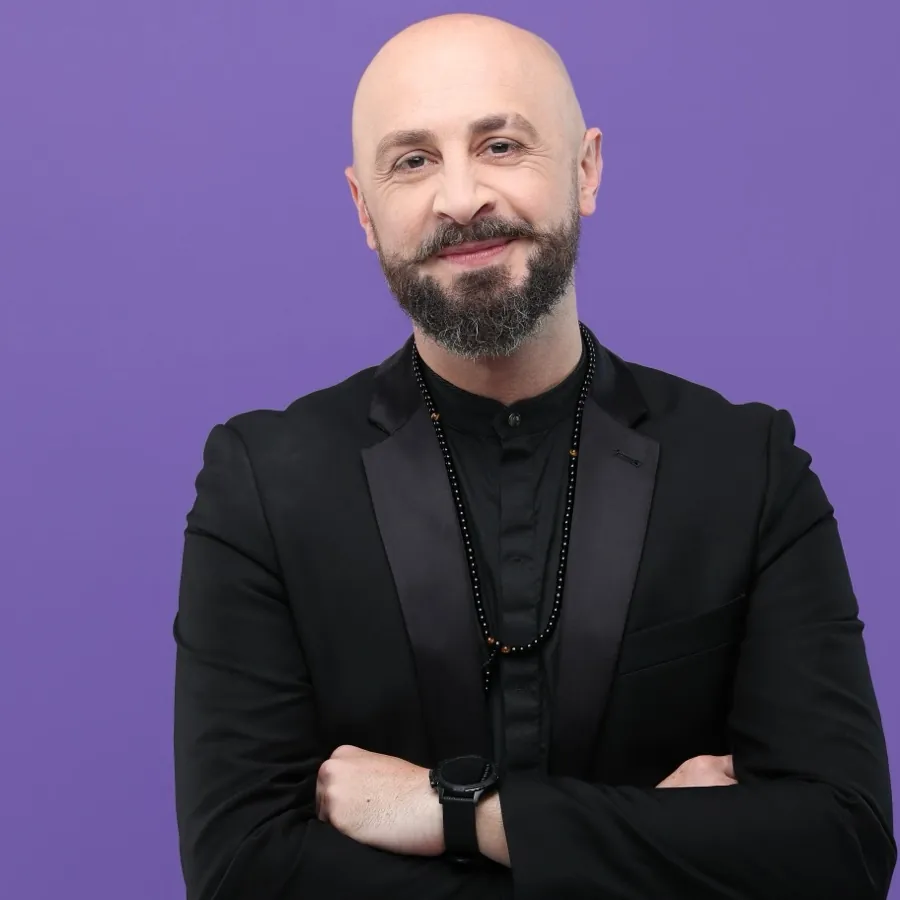
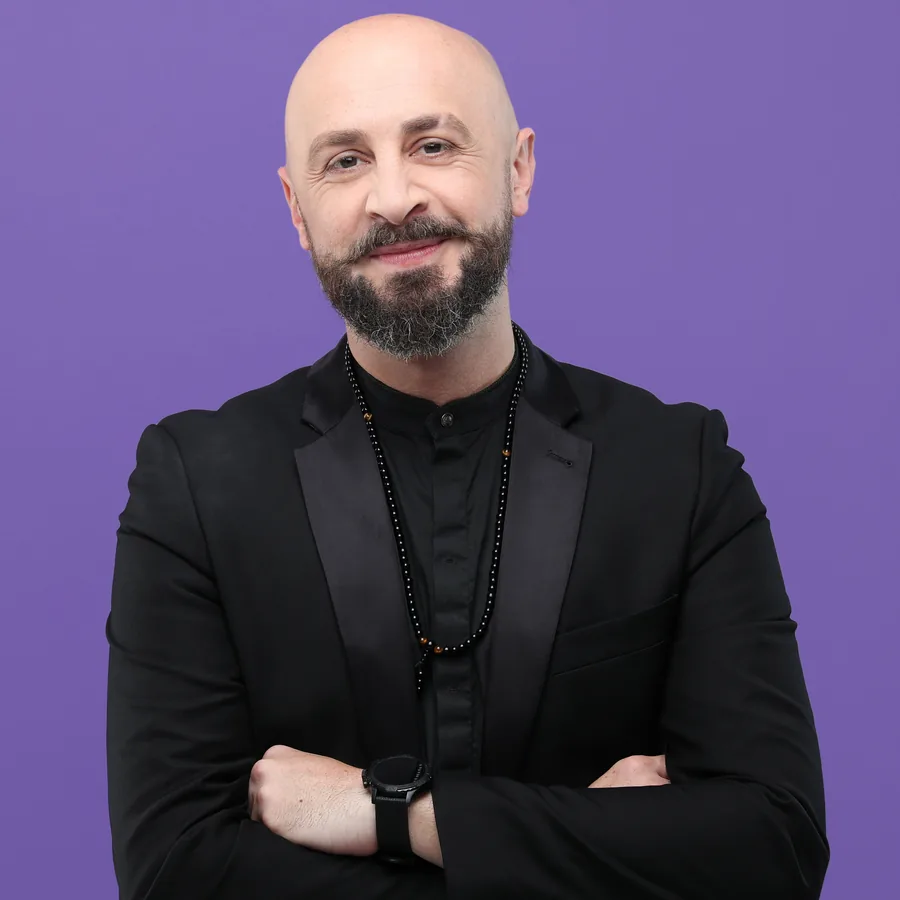
Portfolio: center Matrix crop

Changed region(s): [[0.0933, 0.0, 1.0, 1.0], [0.6533, 0.84, 0.84, 0.9022], [0.7778, 0.6844, 0.84, 0.7778]]

diff --git a/portfolio.html b/portfolio.html
@@ -181,7 +181,7 @@
         </article>
         <article class="lx-plate">
           <div class="lx-plate-img lx-plate-img-small">
-            <img src="assets/img/b-matrix.jpg" srcset="assets/img/b-matrix.webp" alt="Portrait of a man in black on a purple studio background" loading="lazy">
+            <img src="assets/img/b-matrix.jpg?v=2" srcset="assets/img/b-matrix.webp?v=2" alt="Portrait of a man in black on a purple studio background" loading="lazy">
           </div>
           <div class="lx-plate-meta">
             <h3 class="lx-plate-name">Matrix</h3>
